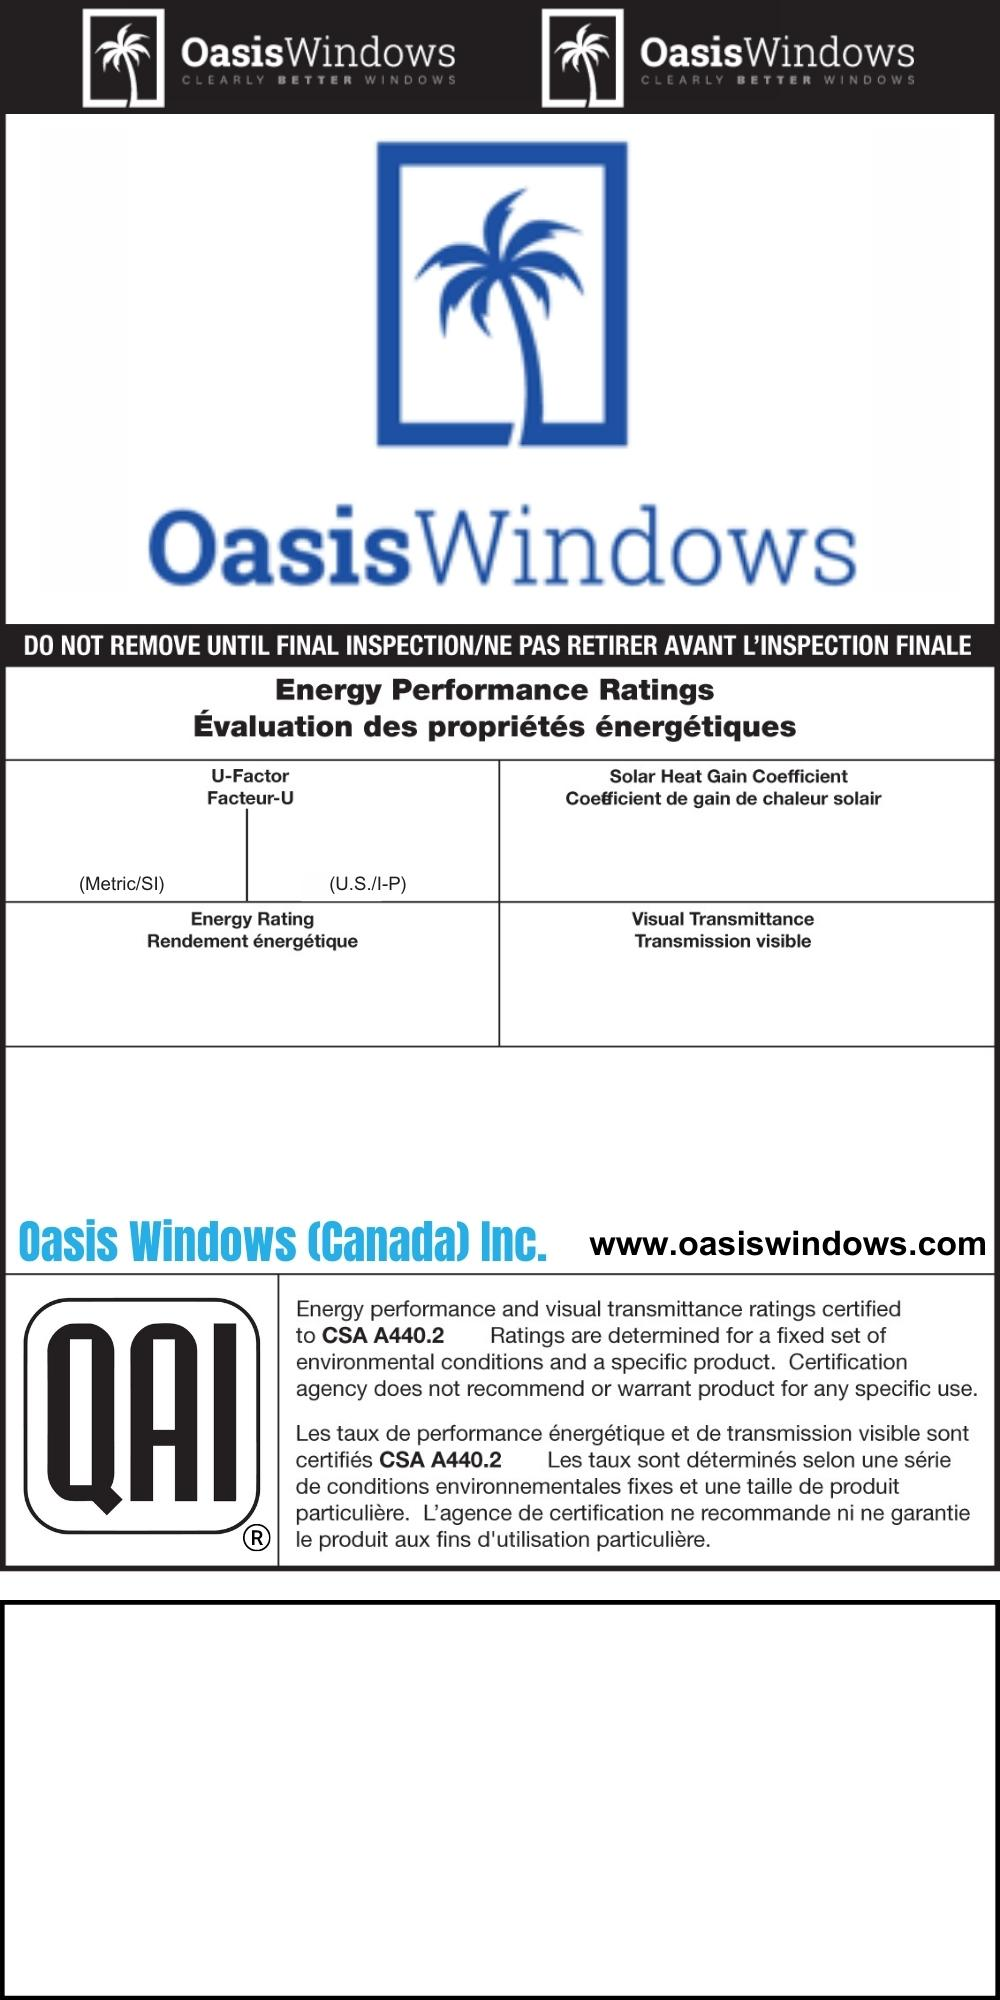
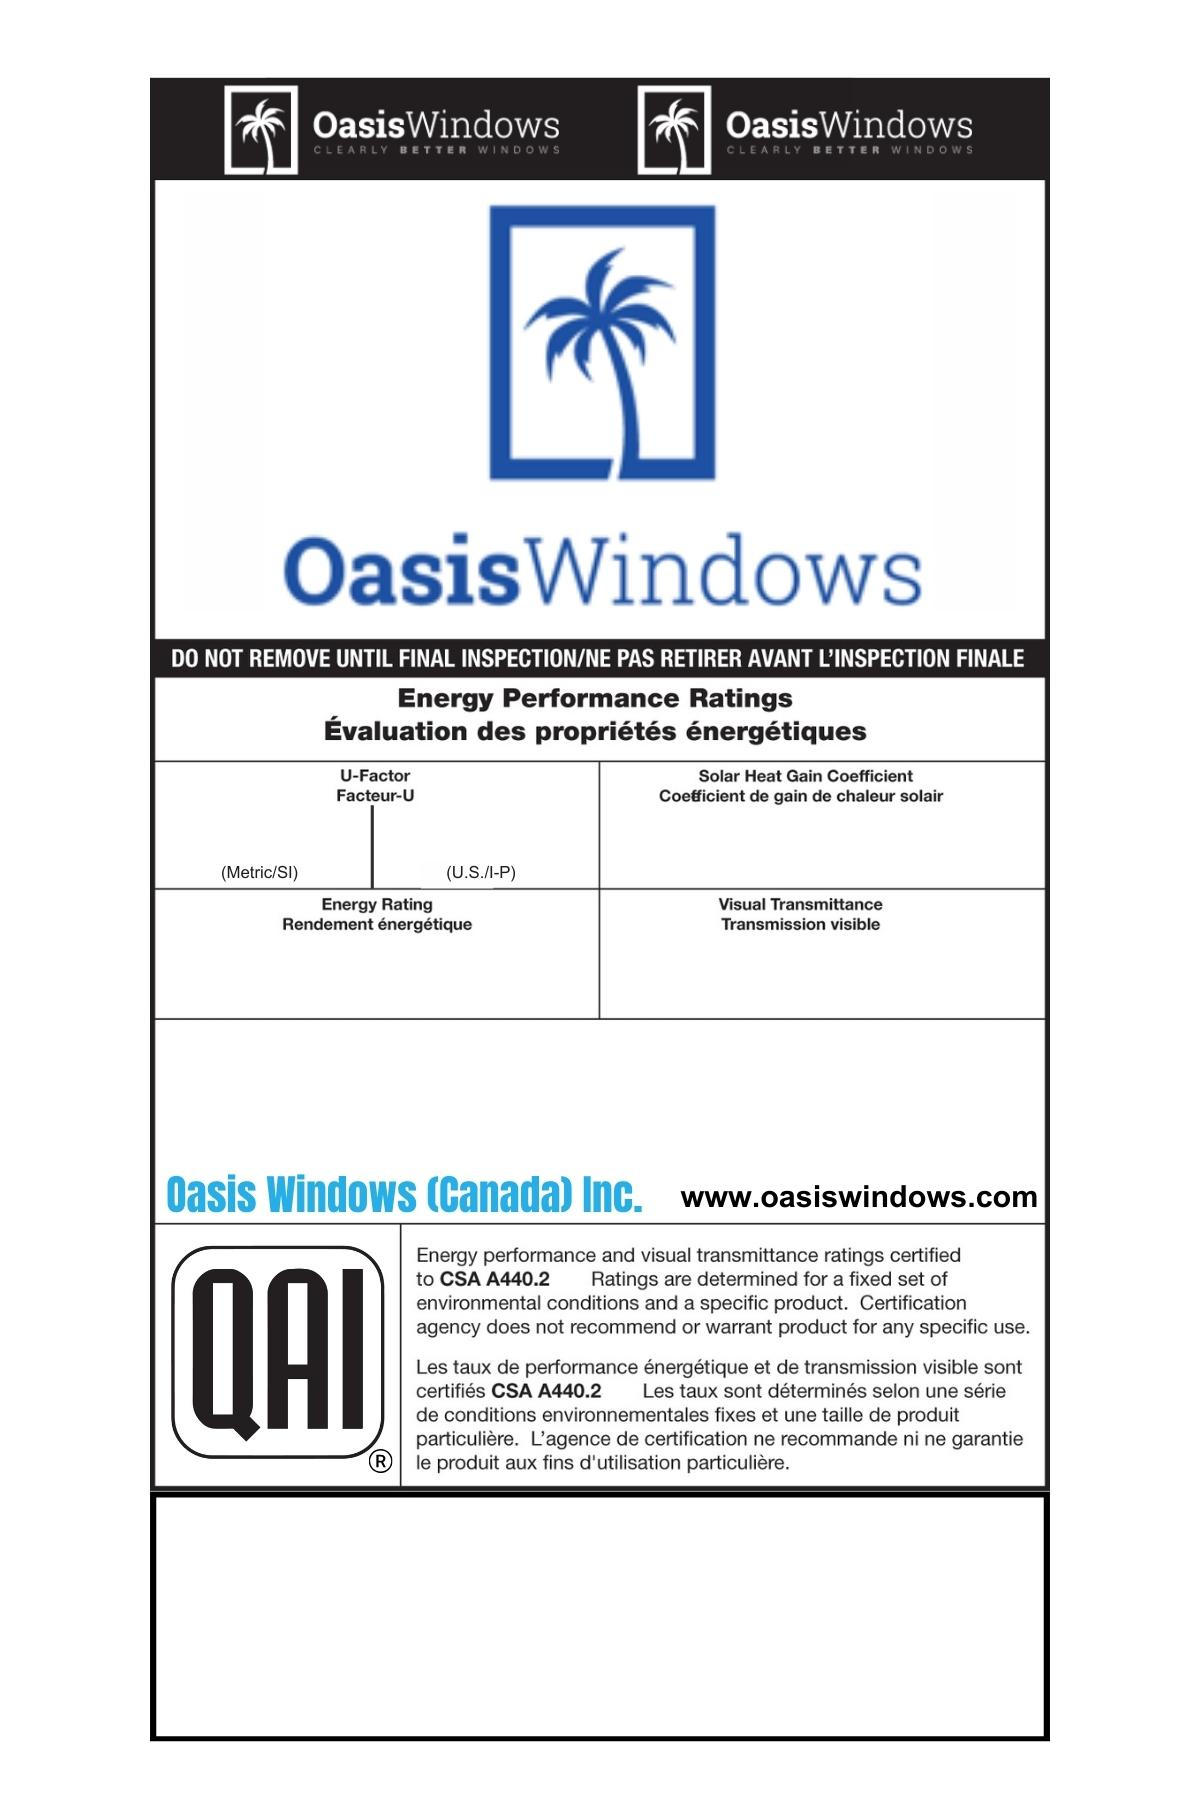
Updated templates to 4x6 and disabled performance ratings

Changed region(s): [[0.0, 0.0, 1.0, 1.0]]

diff --git a/src/main/model/Label.java b/src/main/model/Label.java
@@ -12,7 +12,7 @@ public class Label {
             "https://raw.githubusercontent.com/omairqazi29/WindowLabellingSoftware/main/data/LabelTemplate.jpg";
     public static final String OASIS_TEMPLATE_URL =
             "https://raw.githubusercontent.com/omairqazi29/WindowLabellingSoftware/main/data/OasisTemplate.jpg";
-    public static final Font FONT_VALUES = new Font("Arial", Font.BOLD, 70);
+    public static final Font FONT_VALUES = new Font("Arial", Font.BOLD, 65);
     public static final Font FONT_DESCRIPTION = new Font("Arial", Font.PLAIN, 40);
     public static final Font FONT_PERFORMANCE = new Font("Arial", Font.PLAIN, 35);
     public static final String PERFORMANCE = "AAMA/WDMA/CSA 101/I.S.2/CSA A440-11 NAFS\n";
@@ -79,37 +79,38 @@ public class Label {
 
         g.setFont(FONT_VALUES);
         g.setColor(Color.BLACK);
-        g.drawString(String.valueOf(Math.round((getUFactor() / 5.678) * 100.0) / 100.0), 300, 870);
-        g.drawString(String.valueOf(getUFactor()), 60, 870);
-        g.drawString(String.valueOf(getShgc()), 650, 870);
-        g.drawString(String.valueOf(getEr()), 190, 1020);
-        g.drawString(String.valueOf(getVt()), 650, 1020);
+        g.drawString(String.valueOf(Math.round((getUFactor() / 5.678) * 100.0) / 100.0), 420, 860);
+        g.drawString(String.valueOf(getUFactor()), 200, 860);
+        g.drawString(String.valueOf(getShgc()), 740, 860);
+        g.drawString(String.valueOf(getEr()), 310, 1000);
+        g.drawString(String.valueOf(getVt()), 740, 1000);
 
         g.setFont(FONT_DESCRIPTION);
-        int y = 1170;
+        int y = 1130;
         String[] lines = getDescription().split("\n");
         int totalHeight = lines.length * g.getFontMetrics().getHeight();
         int startY = y - (totalHeight / 2);
         for (String line : lines) {
             int lineWidth = g.getFontMetrics().stringWidth(line);
-            int x = (280 + (400 - lineWidth) / 2);
+            int x = (400 + (400 - lineWidth) / 2);
 
             g.drawString(line, x, startY);
             startY += g.getFontMetrics().getHeight();
         }
 
-        g.setFont(FONT_PERFORMANCE);
-        int performanceY = 1830;
-        String[] performance = getPerformance().split("\n");
-        int totalPerformanceHeight = performance.length * g.getFontMetrics().getHeight();
-        int startPerformanceY = performanceY - (totalPerformanceHeight / 2);
-        for (String line : performance) {
-            int lineWidth = g.getFontMetrics().stringWidth(line);
-            int x = (280 + (400 - lineWidth) / 2);
 
-            g.drawString(line, x, startPerformanceY);
-            startPerformanceY += g.getFontMetrics().getHeight();
-        }
+//        g.setFont(FONT_PERFORMANCE);
+//        int performanceY = 1830;
+//        String[] performance = getPerformance().split("\n");
+//        int totalPerformanceHeight = performance.length * g.getFontMetrics().getHeight();
+//        int startPerformanceY = performanceY - (totalPerformanceHeight / 2);
+//        for (String line : performance) {
+//            int lineWidth = g.getFontMetrics().stringWidth(line);
+//            int x = (280 + (400 - lineWidth) / 2);
+//
+//            g.drawString(line, x, startPerformanceY);
+//            startPerformanceY += g.getFontMetrics().getHeight();
+//        }
 
         g.dispose();
         return label;

diff --git a/src/main/ui/menu/GenerateLabelMenu.java b/src/main/ui/menu/GenerateLabelMenu.java
@@ -151,7 +151,7 @@ public class GenerateLabelMenu extends Menu {
             double margin = 10;
 
             // Set paper size and imageable area accounting for margins
-            paper.setSize(paperWidth, paperHeight);
+            paper.setSize(4 * 72, 6 * 72);
             paper.setImageableArea(margin, margin, paperWidth - margin, paperHeight - 2*margin);
             pageFormat.setPaper(paper);
 
